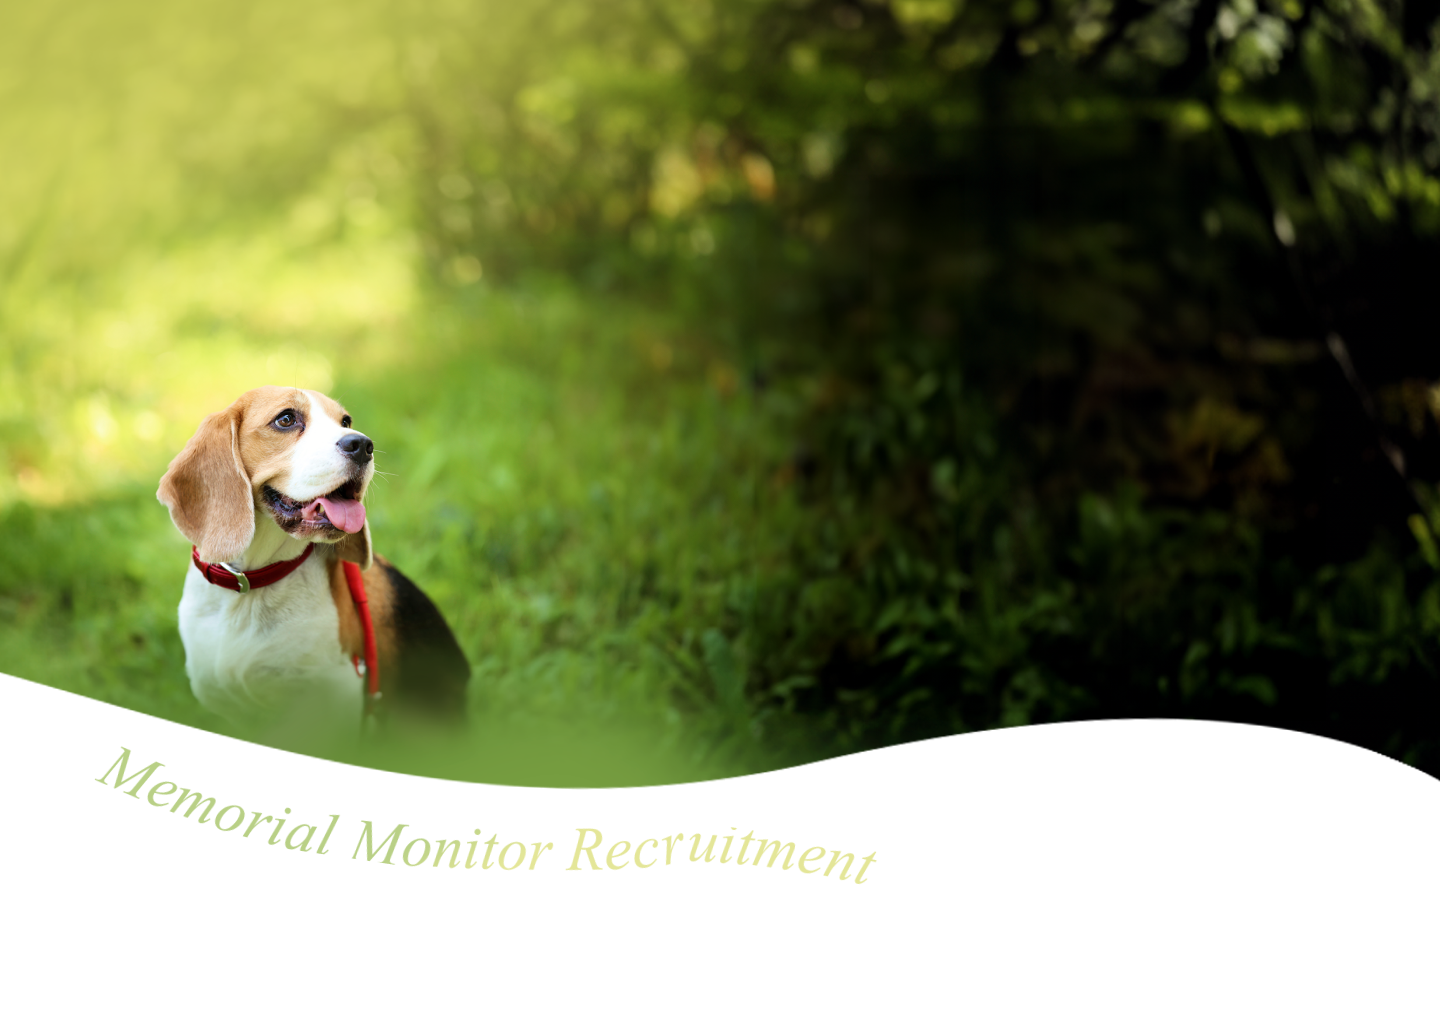
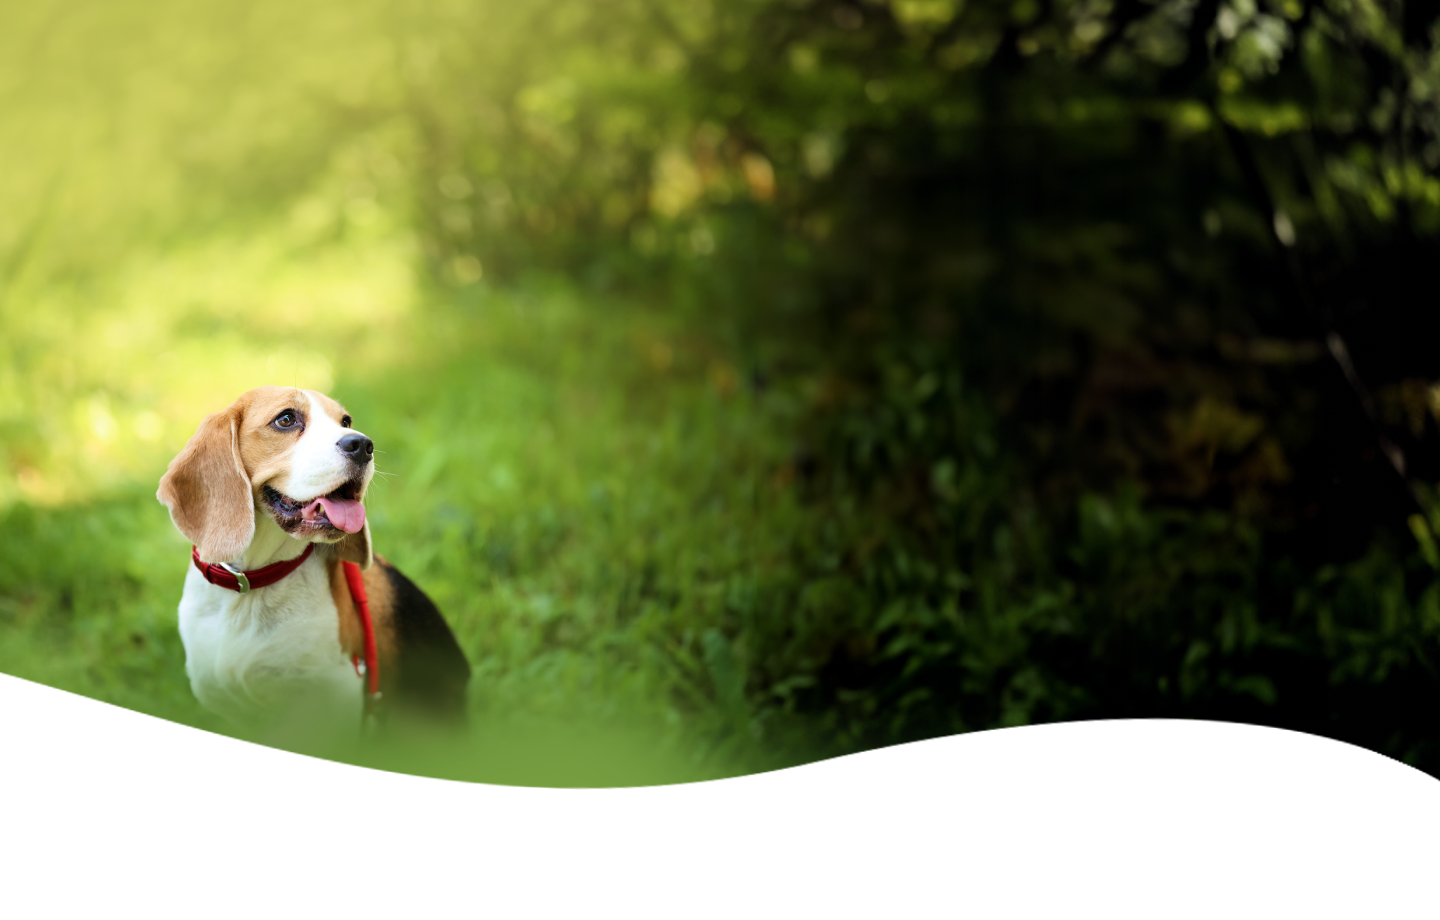
a

diff --git a/src/app/price/components/pack.tsx b/src/app/price/components/pack.tsx
@@ -1,0 +1,84 @@
+"use client";
+
+import useScrollAnimations from "@/hooks/useScrollAnimations";
+
+const Pack = () => {
+  const ref = useScrollAnimations();
+  return (
+    <section ref={ref} className="relative md:mt-10 px-5">
+      <div className="w-full max-w-[1257px] mx-auto">
+        <div className="flex max-xl:flex-wrap justify-center gap-[35px]">
+            <div className="w-[350px] md:w-[611px] bg-white rounded-[26px] border-[3px] border-[#9C37DF] overflow-hidden">
+                <div className="md:h-[72px] h-[44px] flex items-center justify-center bg-[url('/assets/images/price/pack-01.png')] bg-cover">
+                    <img className="max-md:h-8" src="/assets/images/price/pack-title-01.png" alt="" />
+                </div>
+                <div className="pt-4 px-[18px] pb-5">
+                    <p className="text-center font-gothic md:text-[34px] text-[20px] font-extrabold">メタバース供養所 初期費用</p>
+                    <p className="text-center font-gothic md:text-[34px] text-[20px] font-extrabold">
+                    定価 <span className="md:text-[48px] text-[32px]">250,000</span> 円 <span className="md:text-[26px] text-[16px]">(税抜）</span>
+                    </p>
+                    <figure className="mt-3 flex justify-center items-center">
+                        <img src="/assets/images/price/pack-banner-01.png" alt="" />
+                    </figure>
+                </div>
+            </div>
+            <div className="w-[350px] md:w-[611px] bg-white rounded-[26px] border-[3px] border-[#9C37DF] overflow-hidden">
+            <div className="md:h-[72px] h-[44px] flex items-center justify-center bg-[url('/assets/images/price/pack-01.png')] bg-cover">
+                    <img className="max-md:h-8" src="/assets/images/price/pack-title-02.png" alt="" />
+                </div>
+                <div className="pt-4 px-[18px] pb-5">
+                    <p className="text-center font-gothic md:text-[34px] text-[20px] font-extrabold">2Dアバター制作費用
+                    </p>
+                    <p className="text-center font-gothic md:text-[34px] text-[20px] font-extrabold">
+                    定価 <span className="md:text-[48px] text-[32px]">50,000</span> 円 <span className="md:text-[26px] text-[16px]">(税抜）</span>
+                    </p>
+                    <figure className="mt-3 flex justify-center items-center">
+                        <img src="/assets/images/price/pack-banner-02.png" alt="" />
+                    </figure>
+                </div>
+            </div>
+        </div>
+        <div className="flex flex-wrap justify-center mt-[30px] gap-[20px]">
+            <div className="w-[350px] md:w-[405px] bg-white rounded-[26px] overflow-auto border-[3px] border-[#9C37DF]">
+                <div className="bg-[#9C37DF] md:h-[58px] h-10 flex items-center justify-center">
+                    <img className="max-md:h-7" src="/assets/images/price/pack-title-03.png" alt="" />
+                </div>
+                <div className="px-5 pt-4">
+                    <p className="md:text-[24px] text-[20px] font-bold text-center">
+                        メタバース内に <br />
+                        配置可能な2Dアイテム
+                    </p>
+                    <p className="md:text-[24px] text-[20px] font-bold text-center text-[#F54A25]">
+                        1アイテムプレゼント
+                    </p>
+                    <p className="md:text-[16px] text-[13px] font-bold text-center leading-loose">
+                    ※5つのアイテムからお選びいただけます。<br />
+                    (2万円相当)
+                    </p>
+                </div>
+            </div>
+            <div className="w-[350px] md:w-[405px] bg-white rounded-[26px] overflow-auto border-[3px] border-[#9C37DF]">
+                <div className="bg-[#9C37DF] md:h-[58px] h-10 flex items-center justify-center">
+                    <img className="max-md:h-7" src="/assets/images/price/pack-title-04.png" alt="" />
+                </div>
+                <div className="px-5 pt-4">
+                    <p className="md:text-[24px] text-[20px] font-bold text-center">
+                        メタバース内 <br />
+                        専用個別スペース
+                    </p>
+                    <p className="md:text-[24px] text-[20px] font-bold text-center text-[#F54A25]">
+                        プレミアム <br />
+                        カスタマイズ権
+                    </p>
+                    <p className="md:text-[16px] text-[13px] font-bold text-center leading-loose">
+                    (3万円相当)
+                    </p>
+                </div>
+            </div>
+        </div>
+      </div>
+    </section>
+  );
+};
+
+export default Pack;

diff --git a/src/app/price/components/fv.tsx b/src/app/price/components/fv.tsx
@@ -6,29 +6,44 @@ const FV = () => {
   const ref = useScrollAnimations();
   return (
     <section ref={ref} className="relative">
-      <div className="bg-[url('/assets/images/price/fv.png')] h-[1027px] bg-cover bg-bottom">
+      <div className="bg-[url('/assets/images/price/fv.png')] md:h-[63.889vw] h-[70vw] dt:h-[920px] bg-cover bg-no-repeat bg-center">
         <div className="w-full max-w-[1440px] mx-auto relative">
-            <div className="flex absolute left-0 top-0 p-7">
+            <div className="flex absolute left-0 top-0 p-2 md:p-7">
                 <h1>
-                    <img src="/assets/images/price/fv-text.png" alt="" />
+                    <img className="fade-up max-dt:w-[50.139vw]" src="/assets/images/price/fv-text.png" alt="" />
                 </h1>
             </div>
-            <div className="flex justify-end pr-10">
+            <div className="flex justify-end max-mx:px-5 pr-[3.889vw] dt:pr-14 pt-[1.111vw] dt:pt-4">
                 <div className="flex items-end flex-col">
                     <div className="flex flex-col items-center justify-center">
                         <figure>
-                            <img src="/assets/images/price/fv-banner-01.png" alt="" />
+                            <img className="fade-up max-dt:w-[45.764vw]" src="/assets/images/price/fv-banner-01.png" alt="" />
                         </figure>
-                        <figure>
-                            <img src="/assets/images/price/fv-tri.png" alt="" />
+                        <figure className="fade-up py-[1.667vw] dt:py-6">
+                            <img className="max-dt:w-[6.458vw]" src="/assets/images/price/fv-tri.png" alt="" />
                         </figure>
                     </div>
                     <figure>
-                        <img src="/assets/images/price/fv-banner-02.png" alt="" />
+                        <img className="fade-up max-dt:w-[57.222vw]" src="/assets/images/price/fv-banner-02.png" alt="" />
                     </figure>
+                    <div className="fade-up max-md:flex max-md:flex-col max-md:items-center max-md:justify-center max-md:w-[calc(100vw-20px)] max-md:pl-5 md:mr-[3.889vw] dt:mr-14 md:mt-[1vw] mt-[24vw] dt:mt-6">
+                        <div className=" md:w-[39.583vw] dt:w-[570px] ">
+                        <p className="dt:text-[18px] md:text-[1.25vw] text-[14px] font-bold text-white text-center mb-1 max-md:text-black">＼多くの方にお問い合わせいただいています／
+                        </p>
+                        <a href="/" className="flex items-center justify-center w-full md:h-[6.528vw] dt:h-[94px] h-[60px] bg-[#F12929] border-2 border-white rounded-[59px] text-white md:text-[1.736vw] dt:text-[25px] text-[14px] font-bold">
+                            メモリアルモニターの枠を今すぐおさえる
+                        </a>
+                        <p className="w-full max-w-[320px] md:max-w-[25.417vw] dt:max-w-[366px] ml-auto md:text-[0.833vw] dt:text-[12px] text-[10px] md:mr-5 md:mt-6 mt-2">
+                        モニターとして新たな供養体験へのフィードバックやSNS投稿にご協力いただく場合があります。ご協力いただけない方は、エントリープランまたはスタンダードプランをお選びください。
+                        </p>
+                        </div>
+                    </div>
                 </div>
             </div>
         </div>
+        </div>
+        <div className="absolute bottom-[2.778vw] dt:bottom-10 left-[5.556vw] dt:left-[80px]">
+            <img className="fade-up max-dt:w-[54.375vw]" src="/assets/images/price/fv-logo.png" alt="" />
         </div>
     </section>
   );

diff --git a/tailwind.config.ts b/tailwind.config.ts
@@ -22,6 +22,7 @@ const config: Config = {
       serif: ["var(--font-serif)", "sans-serif"],
       inter: ["var(--font-inter)", "sans-serif"],
       mincho: ["Hiragino Mincho ProN", "sans-serif"],
+      gothic: ["Hiragino Kaku Gothic Std", "sans-serif"],
     },
   },
   plugins: [],

diff --git a/src/app/price/page.tsx b/src/app/price/page.tsx
@@ -1,9 +1,11 @@
 import FV from "./components/fv";
+import Pack from "./components/pack";
 
 export default function Home() {
   return (
     <main>
       <FV />
+      <Pack />
     </main>
   );
 }
